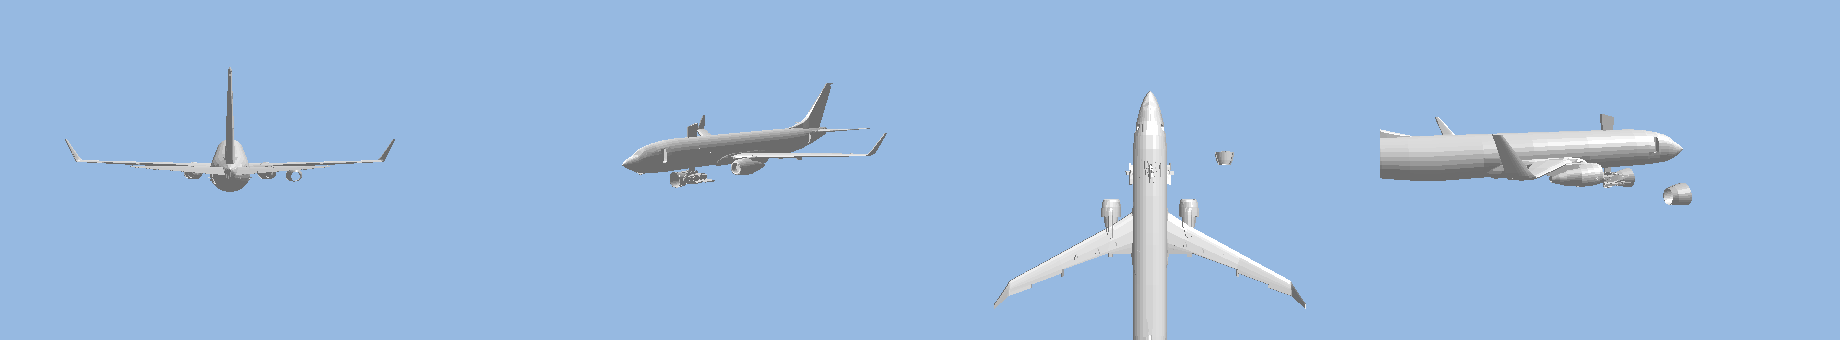
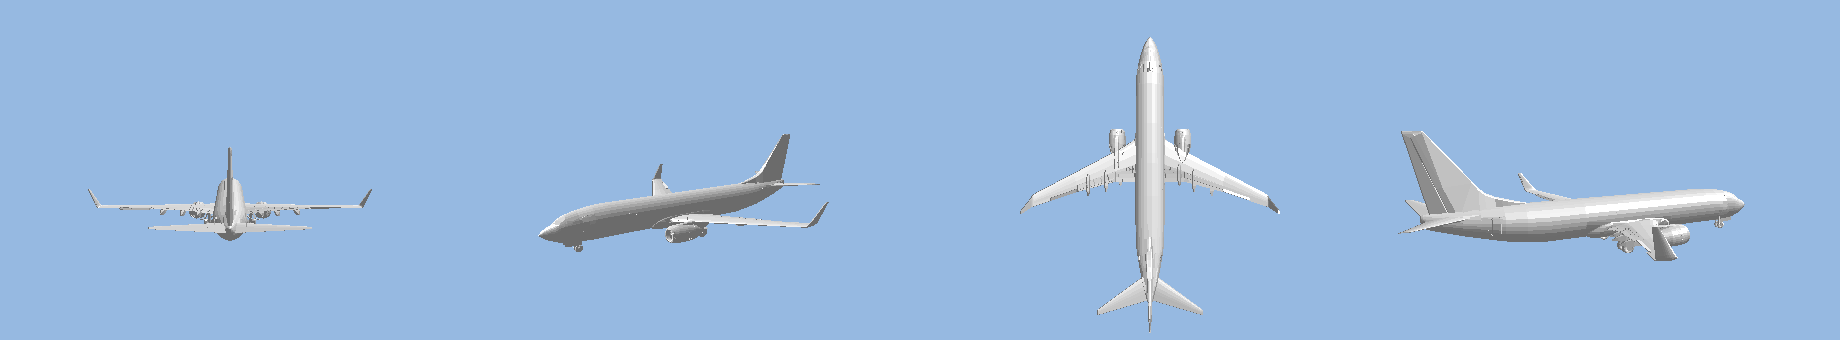
Fix the 737 import: parts were collapsing onto the origin
Every part of the FBX is parented to a rig object (RIG_boeing737) and gets its
world position from it. The importer deleted non-mesh objects first, which
dropped the children's world transform: all 41 parts piled onto the origin,
both engines in the same place, gear inside the fuselage. That is why the
model rendered with engines detached and floating in front of the nose.

Parent links are now cleared with the transform kept, and location/rotation/
scale are applied to the mesh data before anything is deleted. Verified:
engines at ±4.86, main gear at ±2.84, rudder at the tail, 34.8 x 12.3 x 39.4 m.

Also English everywhere it is user-visible:
- GitHub repository description
- HUD preview sample text (was Turkish glyph test strings)
- build.sh subcommands are now send/run/log; gonder/calistir still work

Claude-Session: https://claude.ai/code/session_01Rcs7pNkZnJUB2piqHu9nCz

diff --git a/tools/blender/import_737.py b/tools/blender/import_737.py
@@ -49,6 +49,21 @@ def main():
     bpy.ops.wm.read_factory_settings(use_empty=True)
     bpy.ops.import_scene.fbx(filepath=SRC)
 
+    # Parca konumlari RIG_boeing737 adli bir kok nesneden gelir. Mesh
+    # olmayanlari once silmek, cocuklarin dunya konumunu dusuruyordu: tum
+    # parcalar orijine yigiliyor, sol ve sag motor ust uste biniyordu.
+    # Once baglar konum korunarak cozulur ve donusumler mesh'e islenir.
+    bpy.ops.object.select_all(action='SELECT')
+    bpy.ops.object.parent_clear(type='CLEAR_KEEP_TRANSFORM')
+    bpy.ops.object.select_all(action='DESELECT')
+    for ob in bpy.data.objects:
+        if ob.type == 'MESH':
+            ob.select_set(True)
+    bpy.context.view_layer.objects.active = next(
+        (o for o in bpy.data.objects if o.type == 'MESH'), None)
+    bpy.ops.object.transform_apply(location=True, rotation=True, scale=True)
+    bpy.ops.object.select_all(action='DESELECT')
+
     used = {}
     for ob in list(bpy.data.objects):
         if ob.type != 'MESH':
@@ -60,8 +75,6 @@ def main():
         used[base] = k + 1
         ob.name = base if k == 0 else '%s_%d' % (base, k)
 
-    # FBX Z-yukari geliyor; glTF disa aktarici Blender eksenlerini bekledigi
-    # icin dondurmeye gerek yok - import zaten Blender duzenine getirdi.
     tot = 0
     print('\n=== ESLENEN PARCALAR ===')
     for ob in sorted(bpy.data.objects, key=lambda o: o.name):

diff --git a/tools/ui_preview.c b/tools/ui_preview.c
@@ -137,11 +137,11 @@ int main(int argc, char **argv)
 
     /* --- font orneklemesi --- */
     font_draw_text(40, 30, 3, "BASIC WATER", RGB(255, 255, 255));
-    font_draw_text(40, 80, 2, "AĞIRLIK  4687 kg", RGB(240, 245, 255));
-    font_draw_text(40, 110, 2, "YÖN  6 derece   YÜKSEKLİK", RGB(240, 245, 255));
-    font_draw_text(40, 140, 2, "GÖREVLER: Kalkış pistini bul", RGB(240, 245, 255));
-    font_draw_text(40, 170, 2, "ŞİMDİ ÇOK GÜZEL ĞÜŞİÖÇ ığşiöç", RGB(240, 245, 255));
-    font_draw_text(40, 200, 1, "kucuk etiket: HIZ km/s  EĞİM", RGB(240, 245, 255));
+    font_draw_text(40, 80, 2, "WEIGHT  59000 kg", RGB(240, 245, 255));
+    font_draw_text(40, 110, 2, "HEADING 6 deg   ALTITUDE", RGB(240, 245, 255));
+    font_draw_text(40, 140, 2, "OBJECTIVES: find the runway", RGB(240, 245, 255));
+    font_draw_text(40, 170, 2, "THROTTLE FLAPS SPOILER GEAR", RGB(240, 245, 255));
+    font_draw_text(40, 200, 1, "small label: SPEED km/h  PITCH", RGB(240, 245, 255));
     font_draw_text(40, 225, 2, "abcdefghijklmnopqrstuvwxyz", RGB(240, 245, 255));
     font_draw_text(40, 255, 2, "0123456789 %.,:-/()", RGB(240, 245, 255));
 

diff --git a/README.md b/README.md
@@ -97,9 +97,9 @@ Docker is the only requirement.
 Deploying to a console over the network:
 
 ```sh
-./build.sh gonder <PS3_IP>     # upload the .pkg over FTP
-./build.sh calistir <PS3_IP>   # run the .self directly via ps3load
-./build.sh log <PS3_IP>        # fetch the on-console diagnostic log
+./build.sh send <PS3_IP>   # upload the .pkg over FTP
+./build.sh run <PS3_IP>    # run the .self directly via ps3load
+./build.sh log <PS3_IP>    # fetch the on-console diagnostic log
 ```
 
 Three one-off Docker images do the work, so nothing lands on the host:
